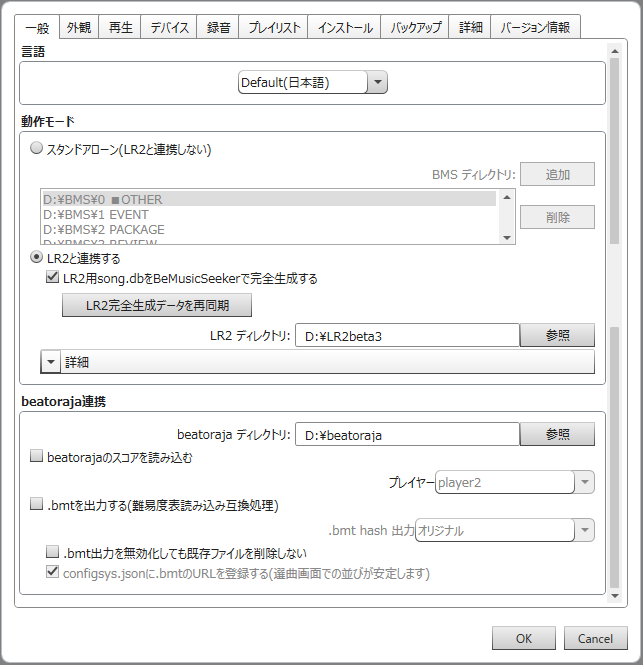
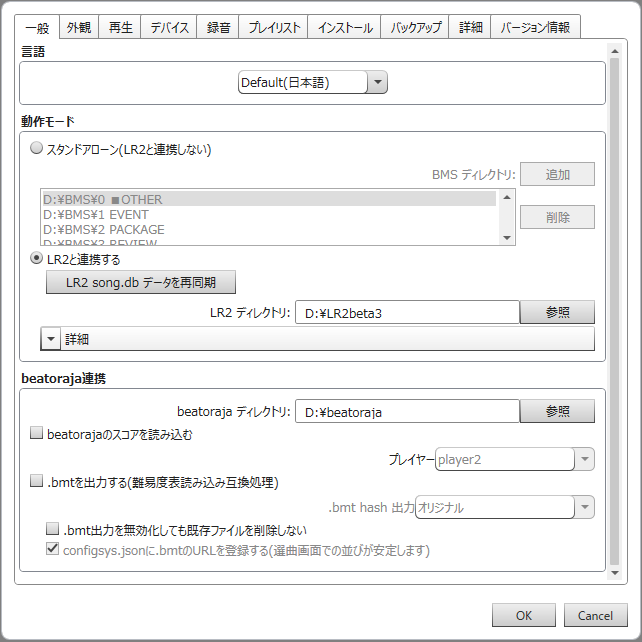
マニュアル調整

Changed region(s): [[0.0312, 0.0, 1.0, 0.9969], [0.4984, 0.7788, 0.7477, 0.81]]

diff --git a/README.ja.md b/README.ja.md
@@ -63,7 +63,7 @@
   - プレイリストサマリー、外部同期 STATUS、単体 / 範囲リロード、URL1/URL2 補完まわりを整理しています。
   - beatoraja の `table` フォルダへ全プレイリストの `.bmt` 難易度表キャッシュを出力できます。beatoraja 側の level 集約処理が重い環境で、BeMusicSeeker 側の集約済みデータを使わせるための互換処理です。
 - **メンテナンス機能の強化**
-  - LR2 非対応パス、ゼロノート検索、解析エラー、構成ファイルフルスキャン、重複ファイルチェックなど、状態確認用の画面を拡充しています。
+  - LR2互換性警告、ゼロノート検索、解析エラー、構成ファイルフルスキャン、重複ファイルチェックなど、状態確認用の画面を拡充しています。
 - **UI・ログ・多言語対応**
   - テーマ対応、設定ダイアログ整理、ステータスバー進捗表示、ログ出力、多言語リソース管理を改善しています。
 
@@ -75,18 +75,14 @@
     - （5MB超などのアップロード制限で送れなかった）未登録md5を自前でローカルDBに持つべきか？ そうしないと未登録画面のリストから延々と消えない問題がある。
     - 基本的には [bms-score-uploader](https://github.com/Neeted/bms-score-uploader) のアプローチを踏襲すれば良さそう。
 2. LR2IRからライバルデータをダウンロードし、データベース化・配置する機能
-3. クリアランプビューワー機能
+3. クリアランプビューア機能
 4. コース内容の表示、および順番編集機能
 5. ハードコードされているURL群のうち、リンク切れとなっているものの代替
     - LR2IRキャッシュ系はデータの用意や更新が大変なため、理想的には「プロキシサーバを用意し、最終更新から24時間経過していた場合のみLR2IR本体へフェッチしにいく」といった仕組みが良いかもしれない。
-6. LR2の `song.db` の空欄を埋めても問題ないかの調査
-   - songテーブルの一部カラムが意図的にNULLになっている可能性がある（LR2自体の譜面解析処理を走らせるためのトリガー用途、またはパースエラーを弾く目的？）。仮にそうだとしても、BPM等の一部の値は埋めても問題ない気がするので要検証。
-7. Everything 1.5a 連携失敗時の警告ダイアログの表示
-8. デコンパイルで失われたローカル変数名のリファクタリング
-    - 変数名が `list1, list2...` や `item1, item2...` といった無意味な命名になってしまっている箇所が多数あり、可読性が致命的（AIによるコード理解時にも支障が出る）なため整理が必要。
-9. カスタムフォルダ出力機能の継続確認
+6. Everything 1.5a 連携失敗時の警告ダイアログの表示
+7. カスタムフォルダ出力機能の継続確認
     - 重要なコア機能なので、仕様整理と回帰確認を継続しておく必要がある。
-10. `.wav` と `.ogg` が重複して存在している場合にどちらかに寄せる機能
+8.  `.wav` と `.ogg` が重複して存在している場合にどちらかに寄せる機能
 
 ## ライセンスの適用範囲
 
